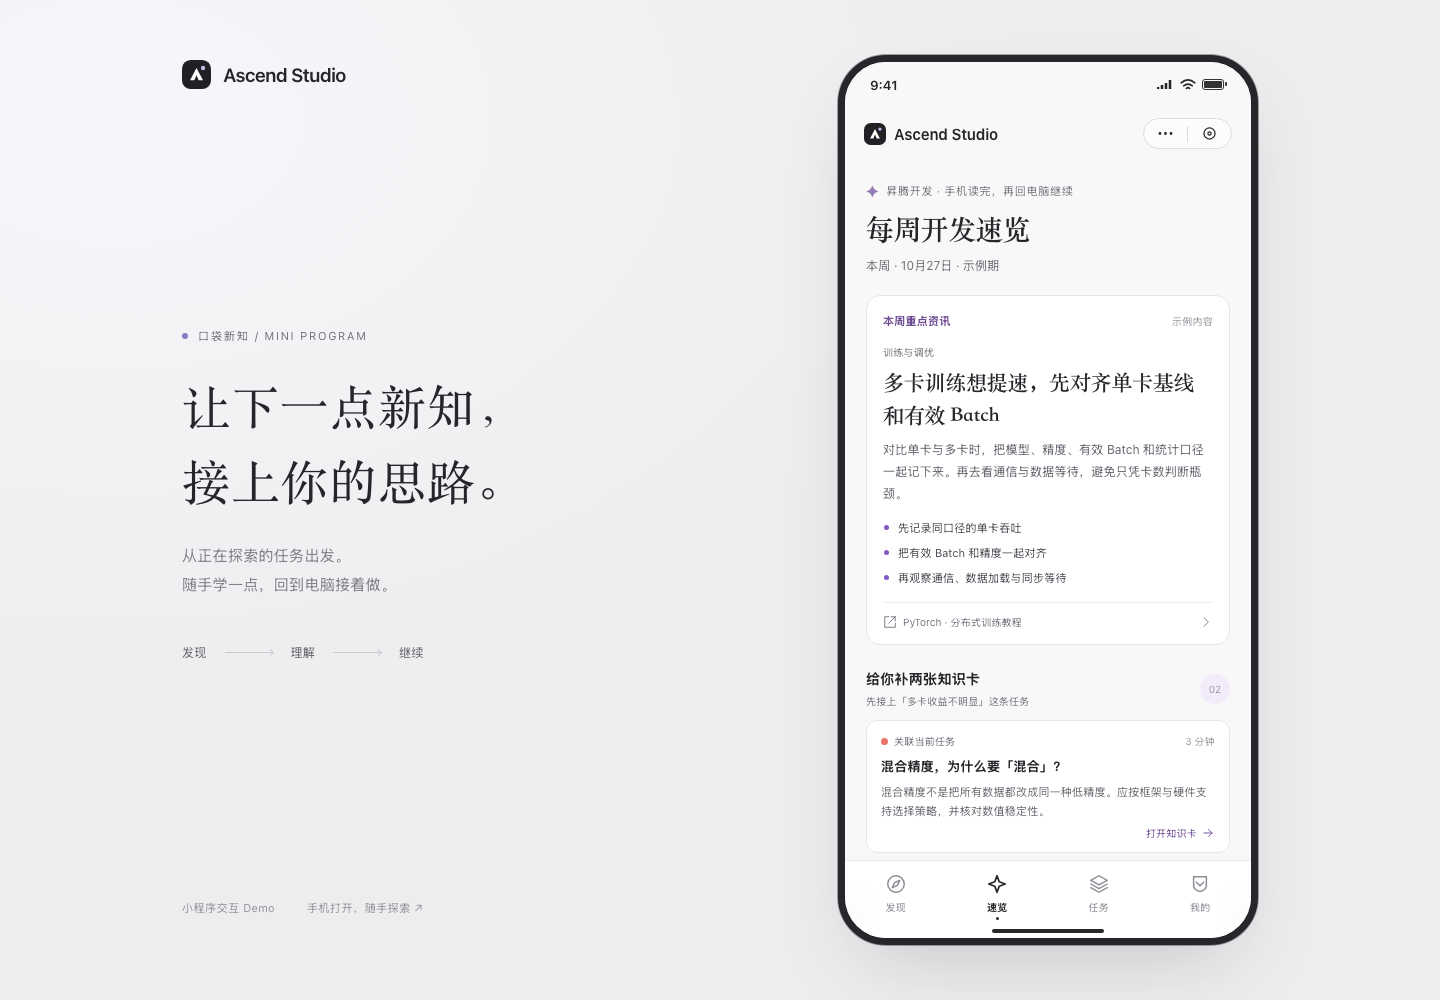
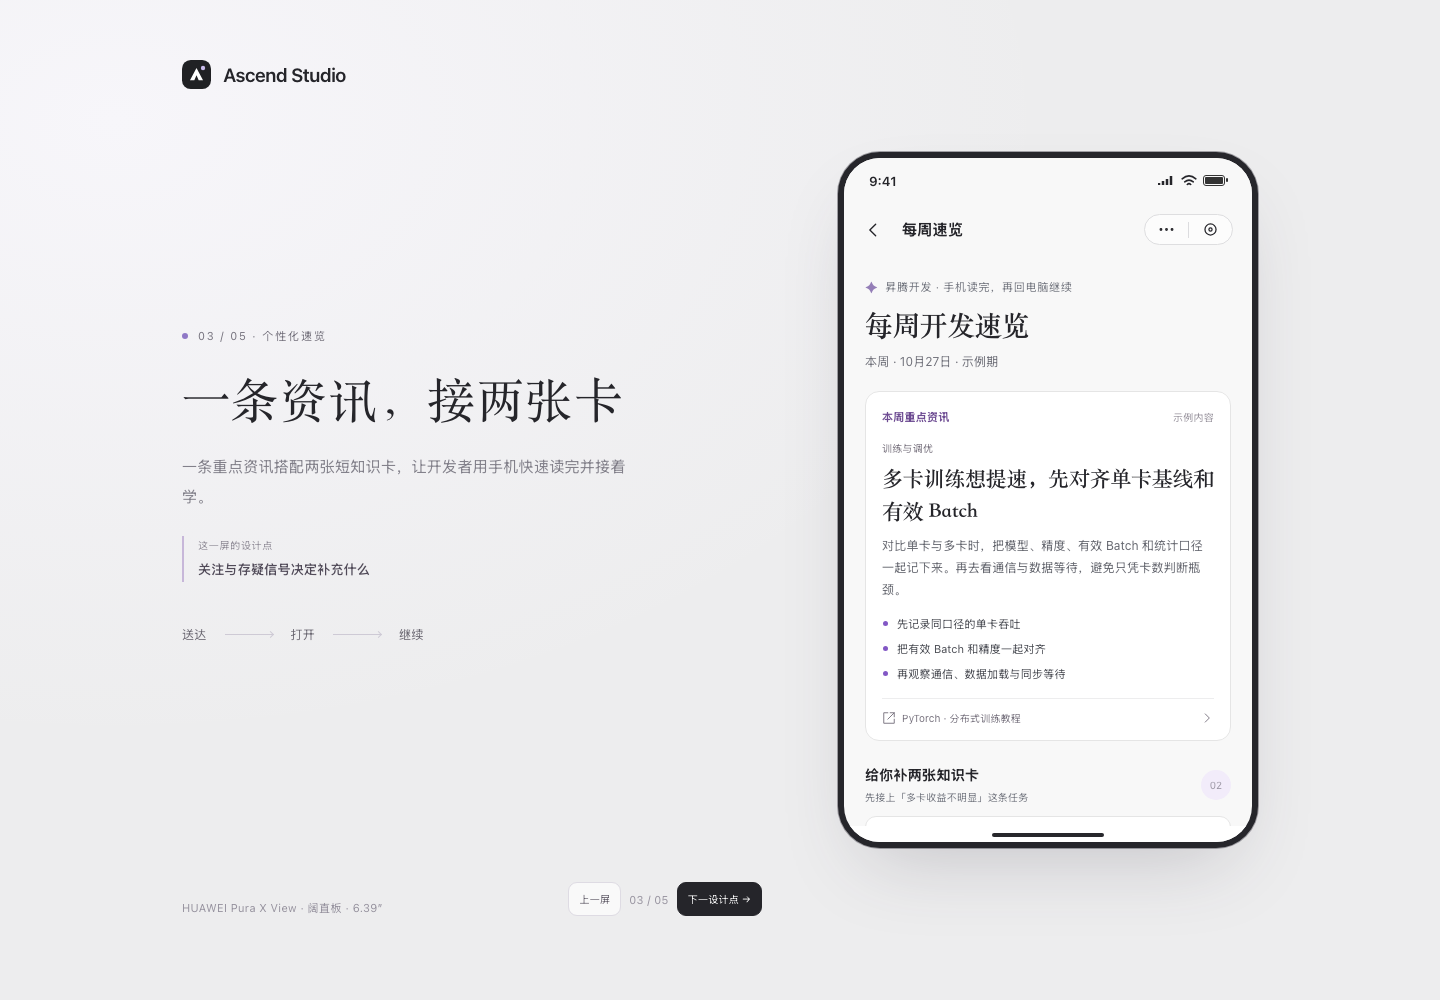
fix: adapt mini preview to Pura X View slab

diff --git a/ascstudio-mini/index.html b/ascstudio-mini/index.html
@@ -22,7 +22,7 @@
         <div class="intro-journey"><span>送达</span><i></i><span>打开</span><i></i><span>继续</span></div>
       </div>
       <div class="preview-foot">
-        <span>可点击的小程序 Demo</span>
+        <span>HUAWEI Pura X View · 阔直板 · 6.39″</span>
         <div class="review-controls" aria-label="设计点翻页">
           <button id="review-prev" type="button" data-review-nav="prev" aria-label="上一设计点" disabled>上一屏</button>
           <span id="review-progress" aria-live="polite">01 / 05</span>
@@ -31,7 +31,7 @@
       </div>
     </aside>
     <div class="device-wrap">
-      <div class="device" id="device">
+      <div class="device device-pura-x-view" id="device" aria-label="HUAWEI Pura X View 样机">
         <div class="system-bar" aria-hidden="true"><span>9:41</span><div><svg width="17" height="12" viewBox="0 0 17 12"><path d="M1 10V8M5 10V6M9 10V4M13 10V1" stroke="currentColor" stroke-width="2.5"/></svg><svg width="16" height="12" viewBox="0 0 18 14"><path d="M1 4.5q8-7 16 0M4 8q5-4 10 0M7 11q2-2 4 0" fill="none" stroke="currentColor" stroke-width="1.8" stroke-linecap="round"/></svg><span class="battery"></span></div></div>
         <header class="app-header" id="app-header"></header>
         <main class="app-scroll" id="screen" tabindex="-1"></main>

diff --git a/ascstudio-mini/styles.css b/ascstudio-mini/styles.css
@@ -110,6 +110,12 @@ button {
   background:#8f78c6;
   border-radius:50%;
 }
+.intro-eyebrow>span:not(:first-child) {
+  width:auto;
+  height:auto;
+  background:none;
+  border-radius:0;
+}
 .intro-body h1 {
   font-family:var(--serif);
   font-size:48px;
@@ -217,12 +223,13 @@ button {
   position:relative;
 }
 .device {
+  /* HUAWEI Pura X View 阔直板机身比例：87 / 144.1 ≈ 0.604。 */
   width:420px;
-  height:min(890px,calc(100dvh - 76px));
-  min-height:680px;
+  height:696px;
+  min-height:0;
   background:#f8f8f8;
-  border:7px solid #26262b;
-  border-radius:48px;
+  border:6px solid #26262b;
+  border-radius:42px;
   position:relative;
   overflow:hidden;
   display:flex;
@@ -2331,10 +2338,10 @@ button {
     gap:70px;
   }
   .device {
-    height:calc(100dvh - 48px);
-    min-height:600px;
-    border-width:6px;
-    border-radius:43px;
+    height:min(696px,calc(100dvh - 48px));
+    min-height:0;
+    border-width:5px;
+    border-radius:38px;
   }
   .preview-intro {
     min-height:600px;
@@ -2354,8 +2361,10 @@ button {
   }
   .device {
     width:390px;
-    height:calc(100dvh - 56px);
-    min-height:640px;
+    height:min(646px,calc(100dvh - 56px));
+    min-height:0;
+    border-width:5px;
+    border-radius:38px;
   }
   .intro-body h1 {
     font-size:35px;

diff --git a/AGENTS.md b/AGENTS.md
@@ -7096,3 +7096,10 @@ node node_modules/vitepress/bin/vitepress.js dev --port 5300
 - 修改 `ascstudio-mini/index.html`、`app.js`、`styles.css`、`README.md`、`qa.md`。手机端小程序交互保持原路径；讲解侧栏仅在桌面评审壳出现。未改变电脑端页面序列或 API / Protocol、Host / Harness、Application / Task 边界；微信消息仍为本地模拟，不代表真实推送。
 - 验证：`node --check ascstudio-mini/app.js`、`node --check ascstudio-mini/knowledge.js`、`git diff --check` 通过；未做完整浏览器逐屏点击回归，也未新增截图。Pages workflow `40498003527` 成功；线上入口、JS、CSS均 HTTP 200，HTML / JS 已确认包含五步面板和路由导航逻辑。
 - 提交 / 推送：功能提交 `36955efb` 已推送至 `origin/main`。本条交接记录随后补推。
+
+### 2026-10-27 · Pura X View 阔直板样机适配
+
+- 用户明确纠正设备形态：HUAWEI Pura X View 是阔直板手机，不是折叠屏（H）。华为官方规格页列出机身 144.1 × 87.0 mm、6.39 英寸屏幕（H）；标准桌面样机调整为 420 × 696 CSS px，宽高比约 0.603，近似机身 87.0 / 144.1 ≈ 0.604。样机只表达单屏阔直板轮廓，不声称复刻工业设计。
+- 更新 `ascstudio-mini/index.html`、`styles.css`、`README.md`、`qa.md` 与 `evidence/weekly-briefing-desktop.png`。另修正 `.intro-eyebrow` 通用 span 圆点样式误压缩步骤文字的问题。五屏路由、微信服务通知主路径不变；不涉及电脑端页面序列或 API / Protocol、Host / Harness、Application / Task 边界。
+- 依据：用户明确设备纠正和华为官方规格（H）；Chrome 1440×1000 本地截图用于核对样机与布局（M）。`node --check ascstudio-mini/app.js`、`node --check ascstudio-mini/knowledge.js`、`git diff --check` 通过；未运行自动化测试。
+- 基线版本 `36955efb` 已在开始本轮机型适配前推送并在线核对。适配版当前提交 / 推送与 Pages 部署待完成。

diff --git a/ascstudio-mini/qa.md b/ascstudio-mini/qa.md
@@ -58,3 +58,9 @@
 
 - 桌面预览左侧随当前路由切换讲解文案，并提供「上一屏 / 下一设计点」控制；导航覆盖微信消息列表、服务通知、每周速览、知识卡信号、订阅设置。进入第五步时通过速览页打开订阅弹层；移动端仍保留小程序原生交互路径。
 - 验证：`node --check app.js`、`node --check knowledge.js`、`git diff --check` 通过。未完成浏览器端的逐屏点击回归，未生成新截图。
+
+## 2026-10-27 · Pura X View 阔直板样机
+
+- 桌面预览使用单屏直板外框，不含折叠轴或内外屏。标准尺寸 420×696 CSS px，宽高比约 0.603；华为规格为机身宽 87.0 mm、长 144.1 mm，宽高比约 0.604；6.39 英寸屏幕规格见[官方页面](https://consumer.huawei.com/cn/phones/pura-x-view/specs/)。该外框只近似机身比例，不声称精确还原工业设计。
+- Chrome 桌面视口 1440×1000 回放速览页并检查截图；设备外形保持宽直板比例，正文在更短屏幕内自然滚动。修正讲解栏步骤标签样式，避免被圆点规则压缩为竖排。
+- 更新 `evidence/weekly-briefing-desktop.png`。验证：`node --check app.js`、`node --check knowledge.js`、`git diff --check` 通过；未运行自动化测试。

diff --git a/ascstudio-mini/README.md b/ascstudio-mini/README.md
@@ -2,6 +2,8 @@
 
 面向手机的小程序交互 Demo，以知识卡推荐为首页，关联电脑端任务。手机上全屏体验；电脑端以小程序窗口呈现，旁边可逐屏翻看五个设计点，手机界面随讲解同步切换。独立发布入口：`/AscendCANN/ascstudio-mini/`。
 
+电脑端评审样机按 **HUAWEI Pura X View 阔直板**呈现，单屏、无折叠结构。标准桌面外框为 420×696 CSS px，按官方机身长 144.1 mm、宽 87.0 mm 的比例近似；外框不是手机工业设计的精确复刻。[官方规格](https://consumer.huawei.com/cn/phones/pura-x-view/specs/)
+
 ## 体验路径
 
 1. 微信消息列表：默认呈现一条未读的 Ascend Studio 服务通知；点开后看到通知内容，再进入每周开发速览。
